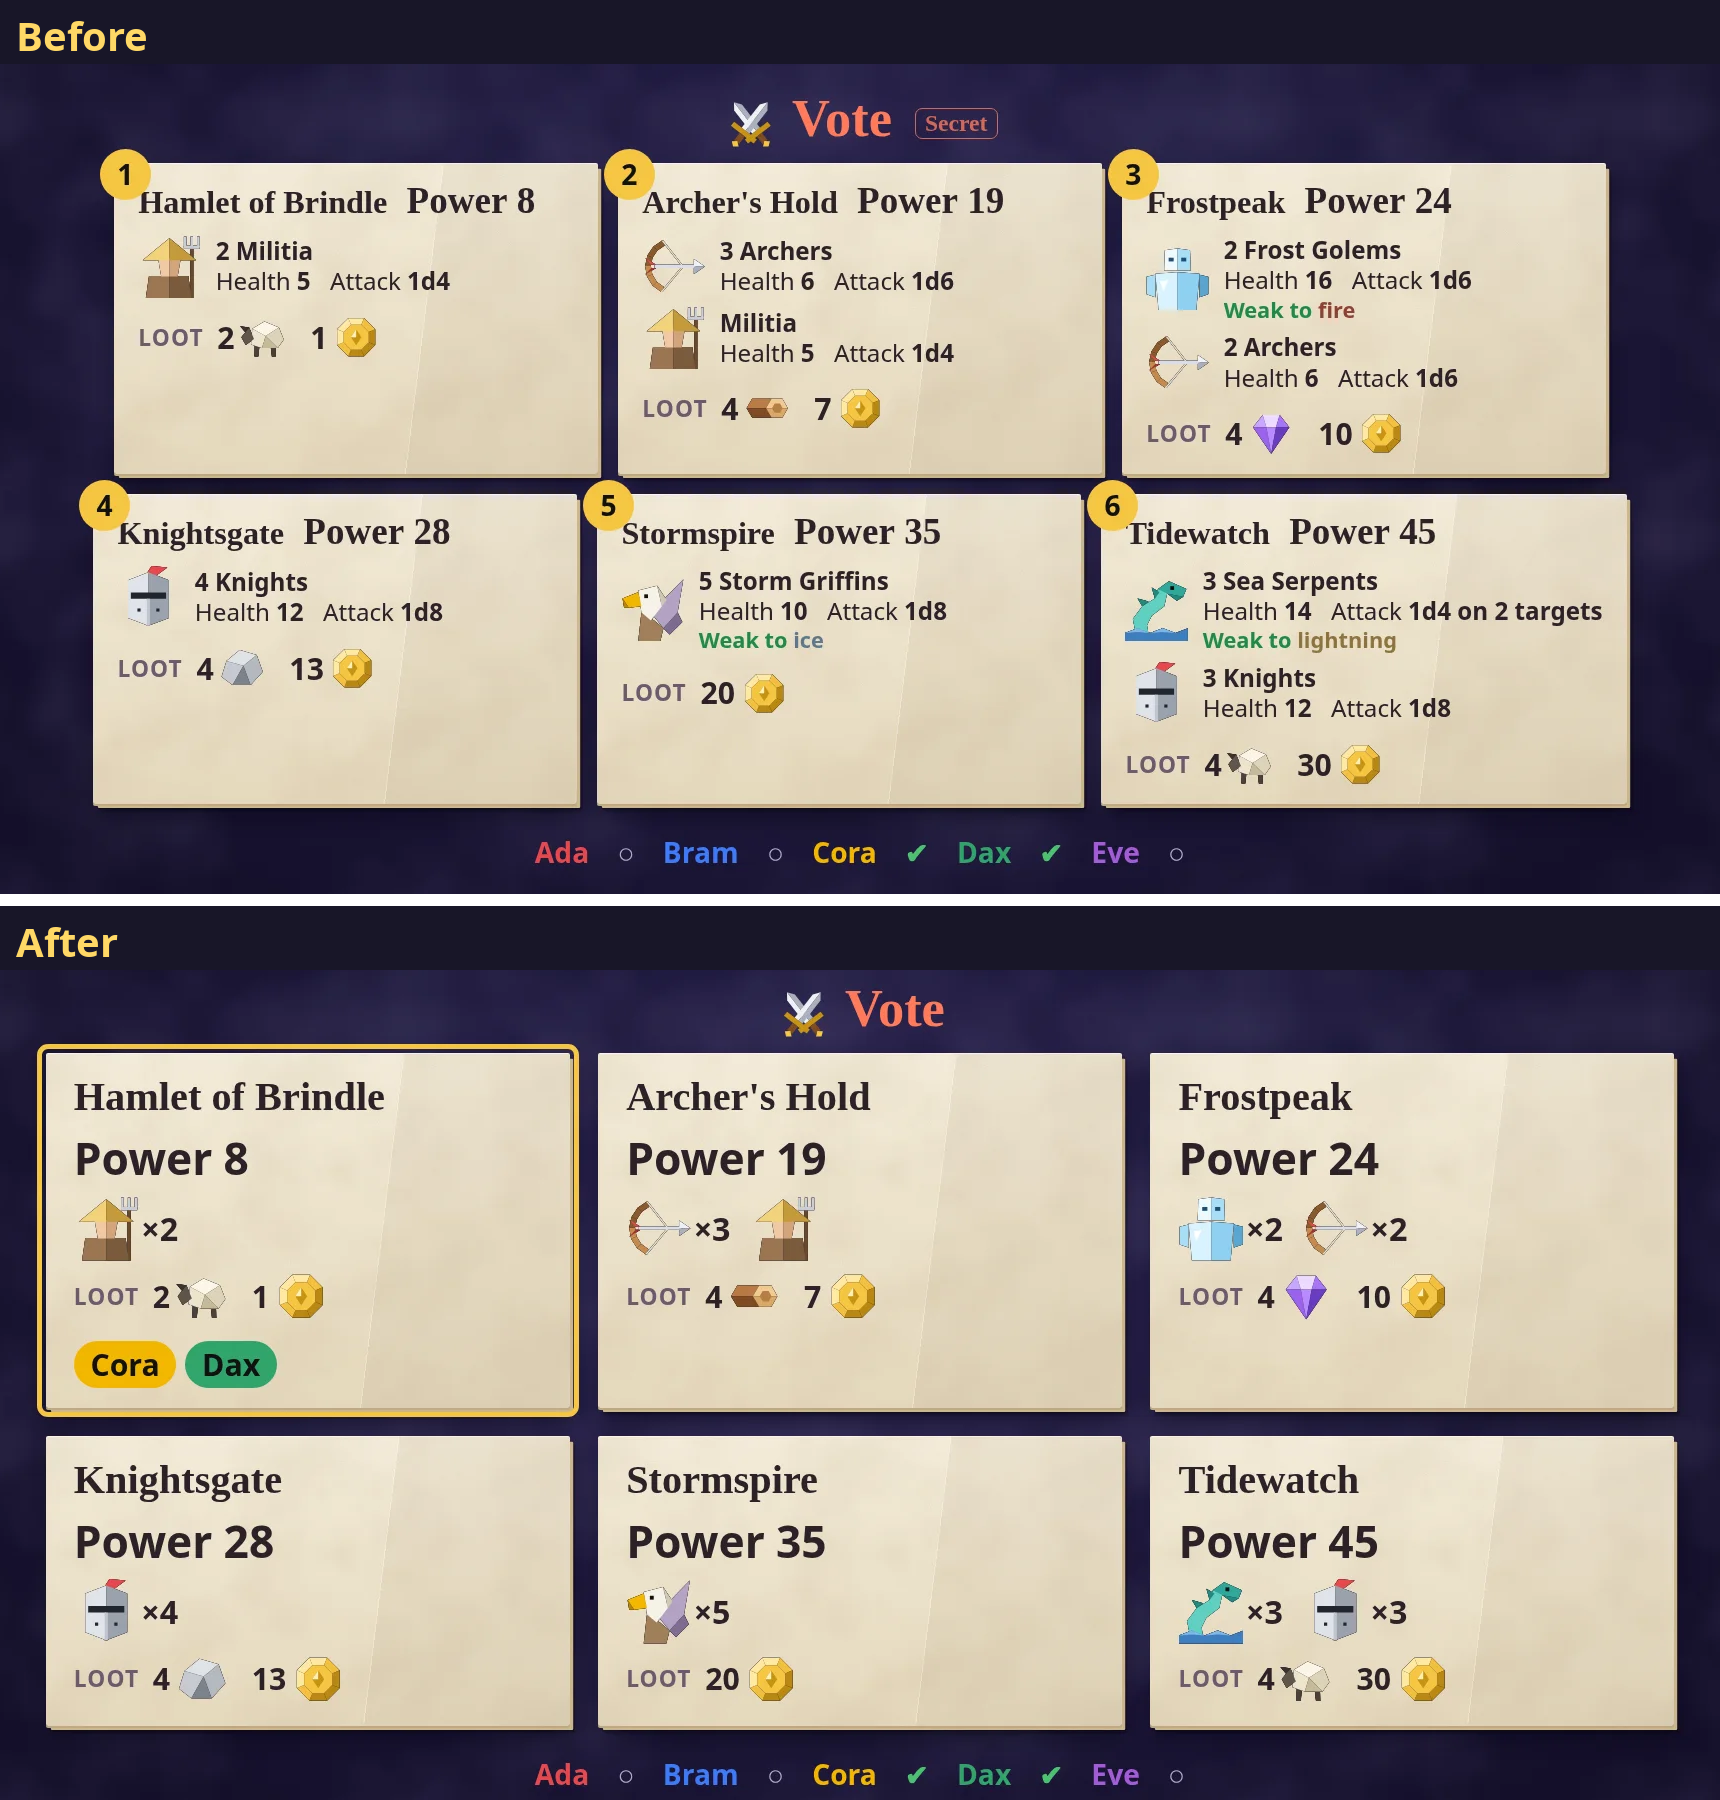
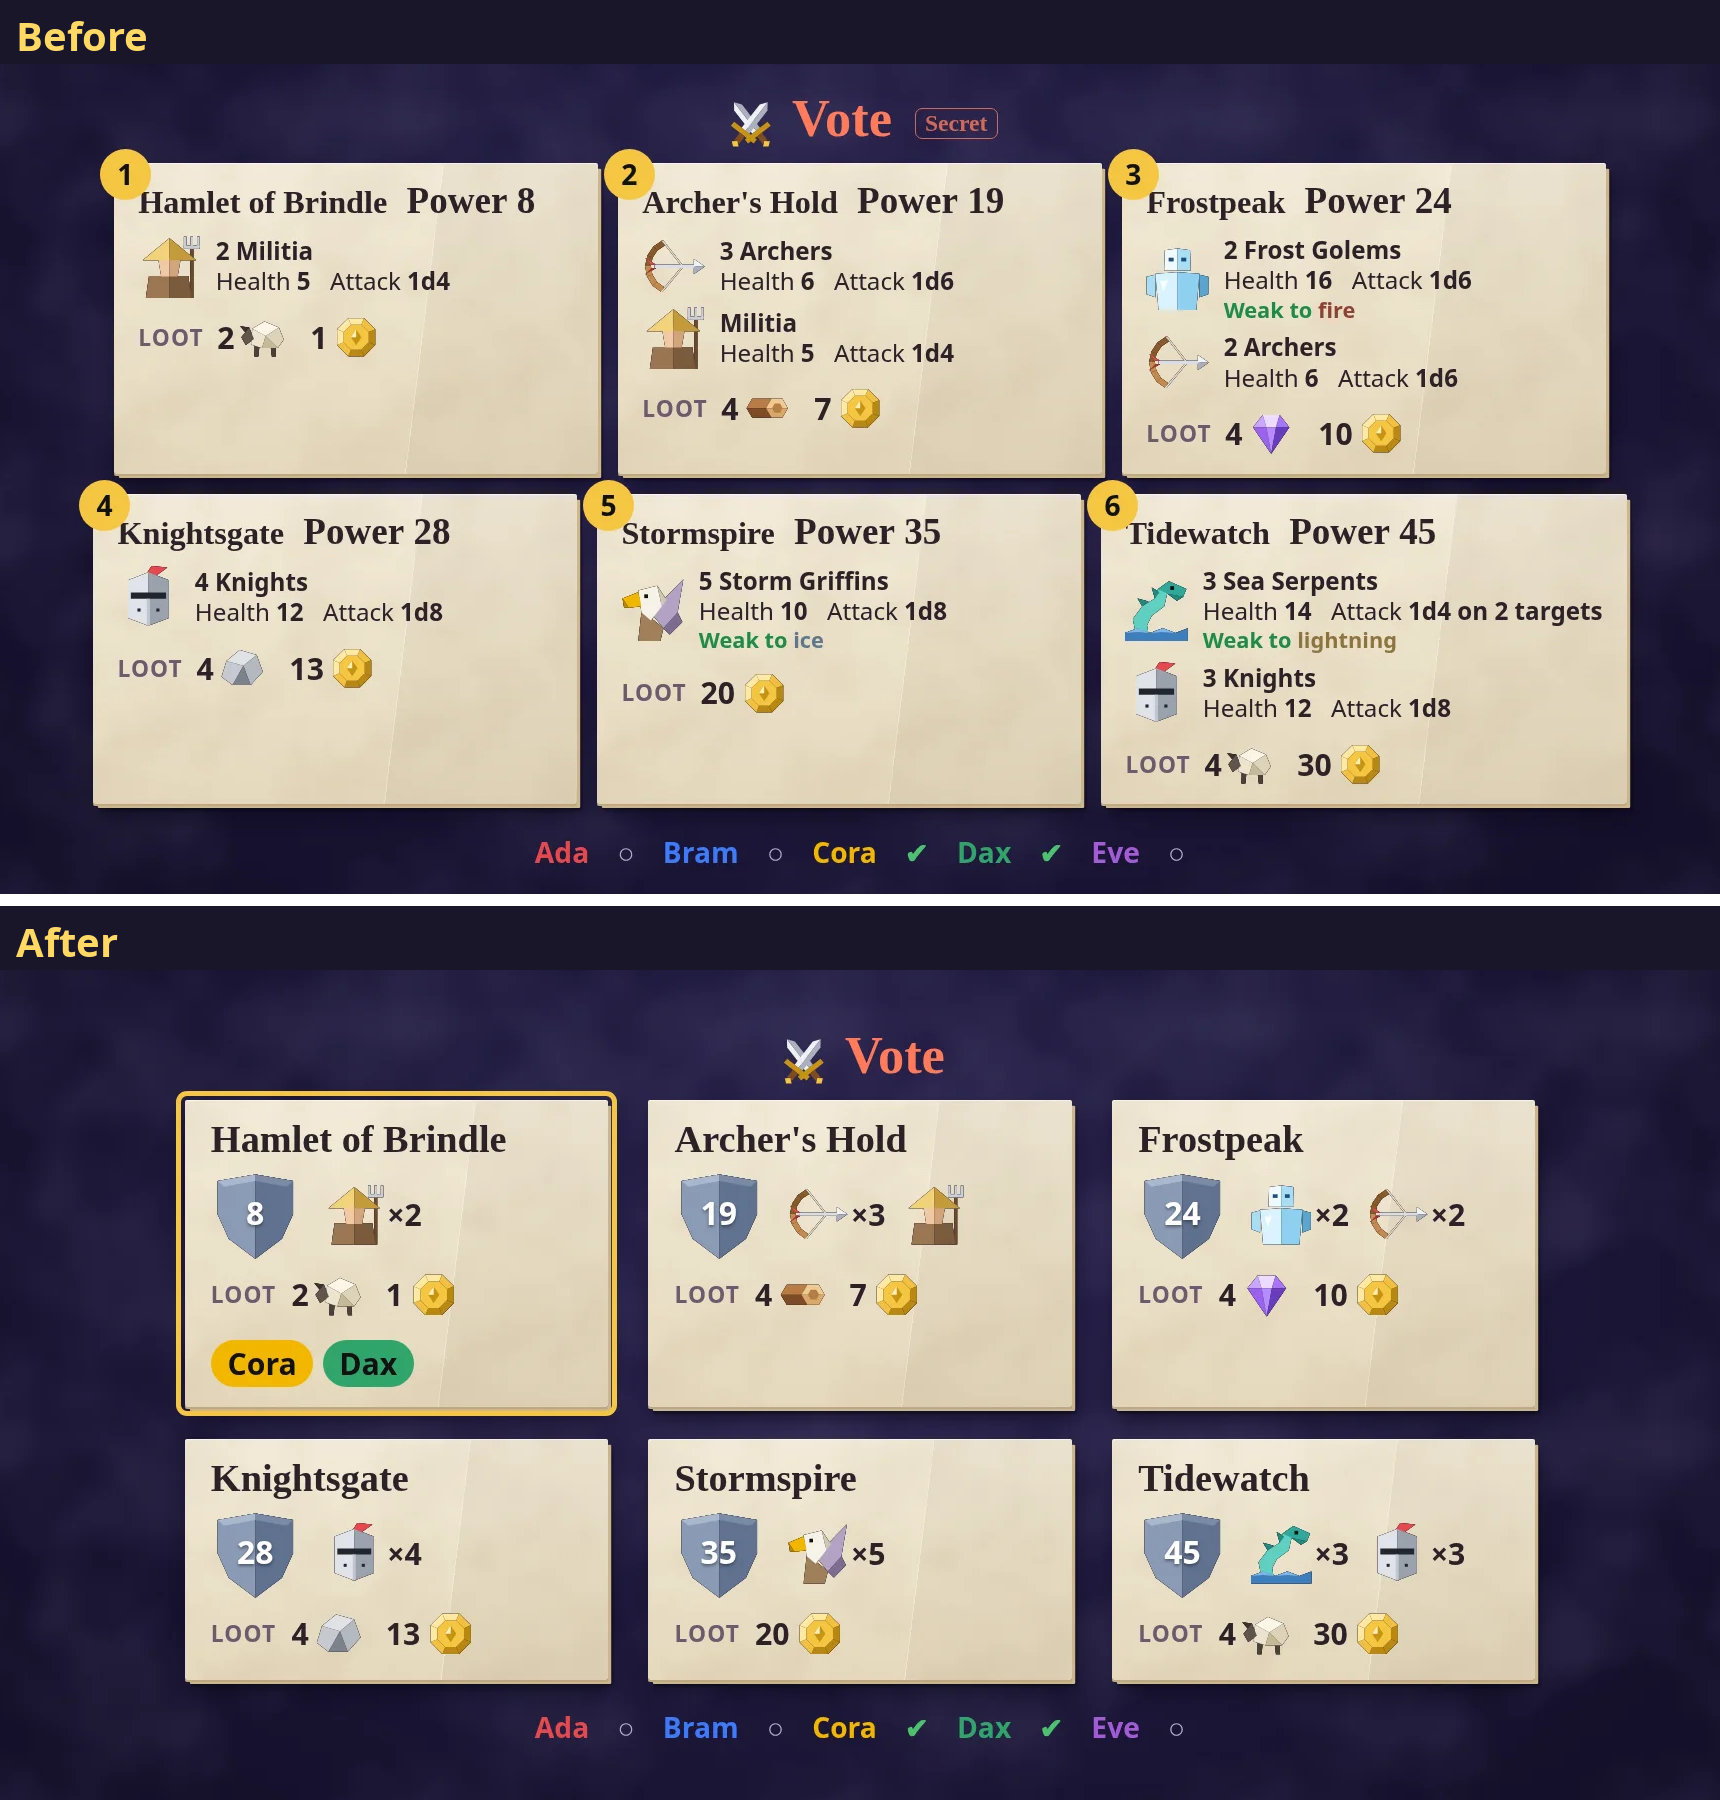
Vote cards: combat power on a shield, narrower cards; table view puts loot down the right
Claude-Session: https://claude.ai/code/session_01MEmTqDZjgwKLtVkQEKthmc

Changed region(s): [[0.0, 0.5289, 0.986, 0.9956]]

diff --git a/web/style.css b/web/style.css
@@ -318,15 +318,20 @@ q::after { content: close-quote; }
 .voters { display: flex; flex-wrap: wrap; gap: .3em; margin-top: .5em; }
 .voters .ptag { background: var(--pc); color: #111 !important; font-weight: 800; padding: .1em .55em; border-radius: 1em; }
 .target .voters { font-size: 1.5em; }
-.candidates.vote { display: grid; grid-template-columns: repeat(var(--cols), minmax(0, 26em)); gap: 1.4em; }
-.cand { display: flex; flex-direction: column; align-items: flex-start; gap: .4em; min-width: 0; padding: 1em 1.4em; }
-.cand h2 { margin: 0; font-size: 2em; }
+.candidates.vote { display: grid; grid-template-columns: repeat(var(--cols), minmax(0, 21em)); gap: 1.6em 2em; }
+.cand { display: flex; flex-direction: column; align-items: flex-start; gap: .5em; min-width: 0; padding: .9em 1.3em 1em; }
+.cand h2 { margin: 0; font-size: 1.9em; line-height: 1.1; }
+.cand-fight { display: flex; align-items: center; gap: .3em 1.2em; flex-wrap: wrap; }
+.pshield { position: relative; display: inline-flex; align-items: center; justify-content: center; width: 1em; height: 1em; flex: none; }
+.pshield svg { position: absolute; inset: 0; width: 100%; height: 100%; }
+.pshield b { position: relative; font-size: .36em; font-weight: 900; color: #fff; margin-top: -.15em; text-shadow: 0 .05em .1em #0006; }
 .cand.lead, .choice.lead { outline: .25em solid var(--accent); outline-offset: .2em; }
-.cand > .stat.power.big { font-size: 2.2em; margin: 0; }
-.foeicons { display: flex; flex-wrap: wrap; gap: .2em 1em; align-items: center; }
+.foeicons { display: flex; flex-wrap: wrap; gap: .2em .9em; align-items: center; }
 .foeicon { display: inline-flex; align-items: center; gap: .15em; }
-.foeicon b { font-size: 1.6em; font-weight: 900; }
-.cand .loot { font-size: 1.5em; margin-top: 0; }
+.foeicon b { font-size: 1.5em; font-weight: 900; }
+.cand .loot { font-size: 1.4em; margin-top: 0; gap: .1em .2em; }
+.cand .loot .chip { margin-right: .5em; }
+.cand .loot .loot-label { margin-right: .4em; }
 .cand .voters { margin-top: auto; padding-top: .3em; }
 .weak { color: var(--good); }
 .loot { margin-top: .5em; font-size: 1.2em; display: flex; flex-wrap: wrap; align-items: center; gap: .1em .3em; }
@@ -812,9 +817,9 @@ body.tv.remote { font-size: 15px; overflow: auto; }
 .remote .target { min-width: 0; width: 100%; padding: .6em .8em; }
 .remote .target h2 { font-size: 1.25em; }
 .remote .target .foes { font-size: 1em; }
-.remote .candidates.vote { grid-template-columns: repeat(2, minmax(0, 1fr)); gap: .8em; width: 100%; }
-.remote .cand { padding: .7em .8em; font-size: .75em; }
-.remote .cand .foeicons { font-size: .8em; }
+.remote .candidates.vote { grid-template-columns: repeat(auto-fill, minmax(min(100%, 19em), 1fr)); gap: .8em; width: 100%; }
+.remote .cand { padding: .7em .9em; font-size: .78em; }
+.remote .cand h2 { font-size: 1.9em; }
 .remote .target .loot { font-size: 1.15em; }
 .remote .target .num { font-size: 1.1em; }
 .remote .status { font-size: 1.1em; }
@@ -860,3 +865,10 @@ body.tv.remote { font-size: 15px; overflow: auto; }
 @keyframes handout { to { translate: 0 3em; opacity: 0; } }
 /* The phone's open panels come in rather than appear. */
 .pbody > :is(.panel, .offer) { animation: enter .25s ease-out; }
+/* The table view's vote: loot down the right, so a wide card isn't half empty. */
+.remote .cand { display: grid; grid-template-columns: auto 1fr; grid-template-areas: "name name" "fight loot" "voters voters"; align-items: center; gap: .3em .8em; }
+.remote .cand h2 { grid-area: name; }
+.remote .cand .cand-fight { grid-area: fight; flex-wrap: nowrap; }
+.remote .cand .loot { grid-area: loot; justify-self: end; flex-direction: column; align-items: flex-end; gap: .1em; }
+.remote .cand .loot .chip { margin-right: 0; }
+.remote .cand .voters { grid-area: voters; }

diff --git a/web/icons.ts b/web/icons.ts
@@ -134,6 +134,13 @@ const ICONS: Record<string, Facet[]> = {
   sword: sword(0),
   // Two swords crossed: a raid.
   raid: [...sword(-38), ...sword(38)],
+  // Combat power: a heater shield folded down the middle, a lighter rim on top.
+  shield: [
+    ['#8a9bb5', P([[0, -9], [-8.5, -7.5], [-8.5, 0], [-6, 5.5], [0, 10]])],
+    ['#5f7190', P([[0, -9], [8.5, -7.5], [8.5, 0], [6, 5.5], [0, 10]])],
+    ['#a9b8cd', P([[0, -9], [-8.5, -7.5], [-7, -6.2], [0, -7.5]])],
+    ['#7a8ba6', P([[0, -9], [8.5, -7.5], [7, -6.2], [0, -7.5]])],
+  ],
   // A folded speech bubble: table talk.
   talk: [
     ['#f3efe4', P([[-8.5, -6], [-5, -8.5], [5, -8.5], [8.5, -6], [8.5, 1.5], [0, 1.5]])],
@@ -357,7 +364,7 @@ const ICONS: Record<string, Facet[]> = {
 
 export const ICON_NAMES = Object.keys(ICONS);
 
-const LABEL: Record<string, string> = { points: 'points', cards: 'cards', raid: 'raid', talk: 'table talk', secret: 'secret', public: 'everyone sees it', tower: 'tallest tower', hoard: 'largest hoard', d4: 'four-sided die', d6: 'six-sided die', d8: 'eight-sided die', d4face: 'four-sided die', d6face: 'six-sided die', d8face: 'eight-sided die',
+const LABEL: Record<string, string> = { points: 'points', cards: 'cards', raid: 'raid', shield: 'combat power', talk: 'table talk', secret: 'secret', public: 'everyone sees it', tower: 'tallest tower', hoard: 'largest hoard', d4: 'four-sided die', d6: 'six-sided die', d8: 'eight-sided die', d4face: 'four-sided die', d6face: 'six-sided die', d8face: 'eight-sided die',
   workshop: 'Workshop', nesting_grounds: 'Nesting Grounds', trade_charter: 'Trade Charter',
   militia: 'Militia', archers: 'Archers', knights: 'Knights', frost_golem: 'Frost Golem', storm_griffin: 'Storm Griffin', sea_serpent: 'Sea Serpent',
   wolf_pack: 'Wolf Pack', cave_bear: 'Cave Bear', basilisk: 'Basilisk', thunderbird: 'Thunderbird', leviathan: 'Leviathan' };

diff --git a/web/tv.ts b/web/tv.ts
@@ -8,7 +8,7 @@ import type { DragonView, EventView, PublicState, Snapshot, TargetView } from '.
 import {
   ELEMENT_COLORS, PLAYER_COLORS, POINTS_TO_WIN, STAGE_LABEL, TERRAIN_COLORS, TERRAIN_NAMES, TITLE_ICON, buildingIcon, dieFace, dragonBadge, dragonChip, dragonLabel, dragonState, elemWords, esc, eventHtml, foeStack, lootLine, gainChips, hpBar, hpFill, powerTag,
   icon, iconText, mapSvg, named, playerTag, post, resChips, standingsHtml, tiebreakNote, unitIcon, watch,
-  fadeAway, foeIcons, leadsVote, voters,
+  fadeAway, foeIcons, leadsVote, powerShield, voters,
 } from './common.ts';
 import { ART_DEFS, tableScene, towerToken, winnerScene } from './art.ts';
 import type { Board3D } from './board3d.ts';
@@ -329,7 +329,8 @@ function targetCard(t: TargetView): string {
 // its name, combat power, defenders as pictures, loot, and who has
 // voted for it, outlined while it leads. Each defender's stats wait for the commit step's card.
 function candidateCard(t: TargetView, i: number, votes: (number | null)[], n: number): string {
-  return `<div class="target cand${leadsVote(votes, i, n) ? ' lead' : ''}"><h2>${esc(t.name)}</h2>${powerTag(t.power, 'big')}${foeIcons(t.units, 3.2)}${lootLine(t.loot, 1.8)}${voters(votes, i, names)}</div>`;
+  return `<div class="target cand${leadsVote(votes, i, n) ? ' lead' : ''}"><h2>${esc(t.name)}</h2>
+    <div class="cand-fight">${powerShield(t.power, 4.4)}${foeIcons(t.units, 3)}</div>${lootLine(t.loot, 1.7)}${voters(votes, i, names)}</div>`;
 }
 
 function check(done: boolean): string {

diff --git a/web/common.ts b/web/common.ts
@@ -319,6 +319,11 @@ export function powerTag(n: number, cls = '', label = 'Power'): string {
   return `<span class="stat power ${cls}" title="combat power">${label} <b>${n}</b></span>`;
 }
 
+// Combat power drawn: the number on a shield, for where it has to read from across the room.
+export function powerShield(n: number, size = 3): string {
+  return `<span class="pshield" style="font-size:${size}em" title="combat power">${icon('shield', 1)}<b>${n}</b></span>`;
+}
+
 // A stat said in words: "Health 10", "Attack 1d6".
 export function statTag(label: string, value: string | number): string {
   return `<span class="stat">${label} <b>${value}</b></span>`;
